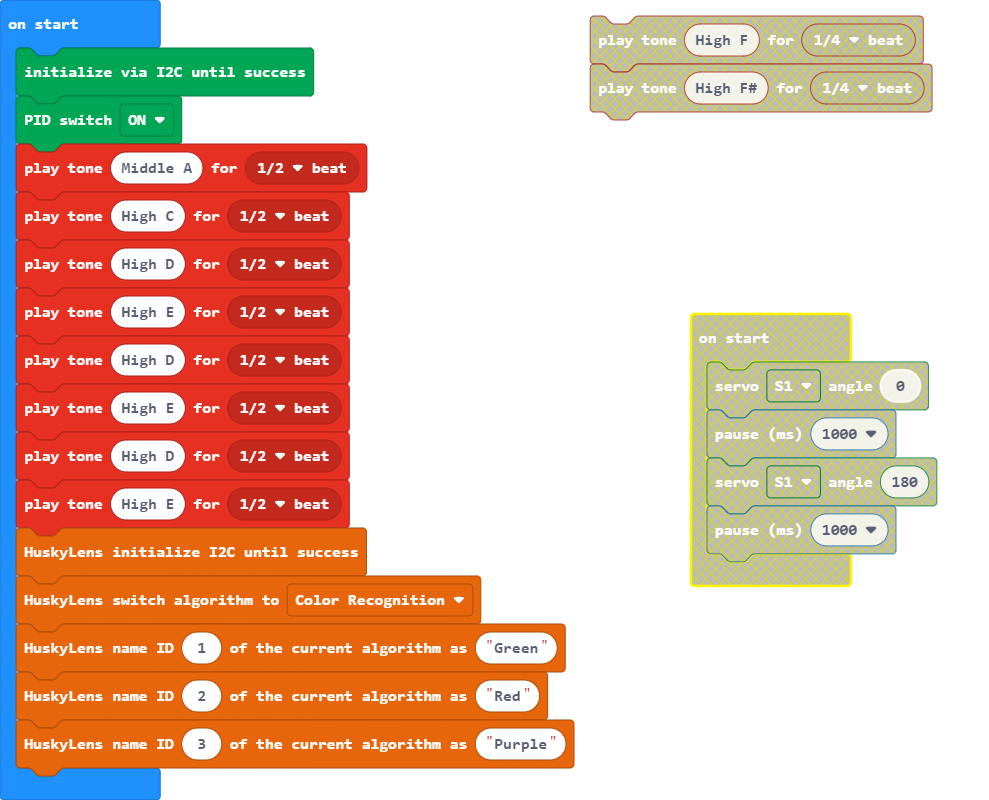
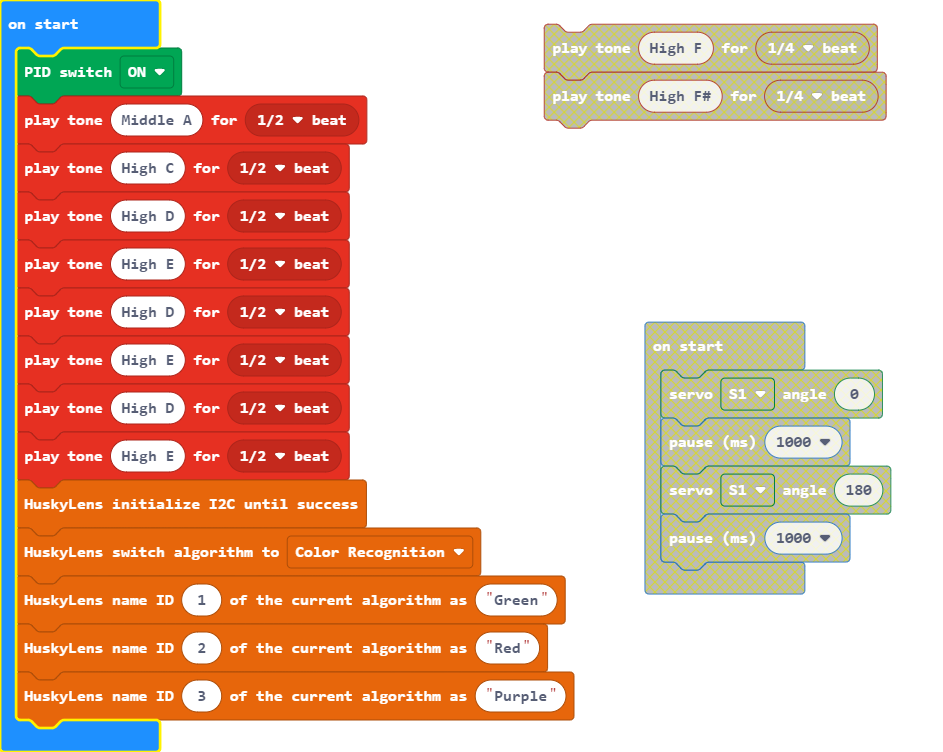
Update main.blocks, main.ts

diff --git a/main.ts b/main.ts
@@ -1,4 +1,3 @@
-DFRobotMaqueenPlus.I2CInit()
 DFRobotMaqueenPlus.PID(PID.ON)
 music.playTone(440, music.beat(BeatFraction.Half))
 music.playTone(523, music.beat(BeatFraction.Half))
